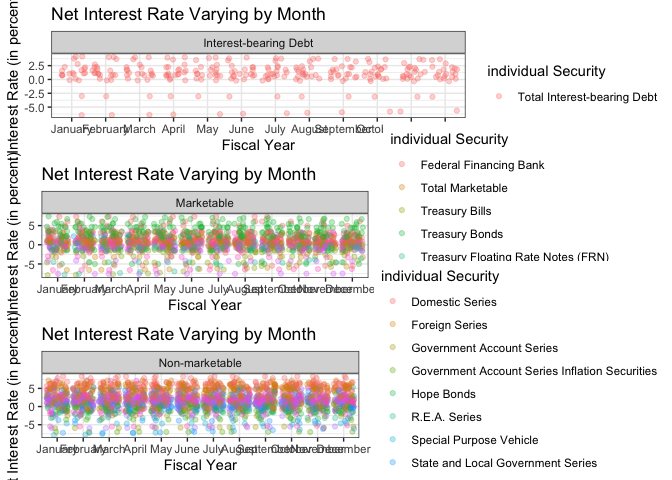
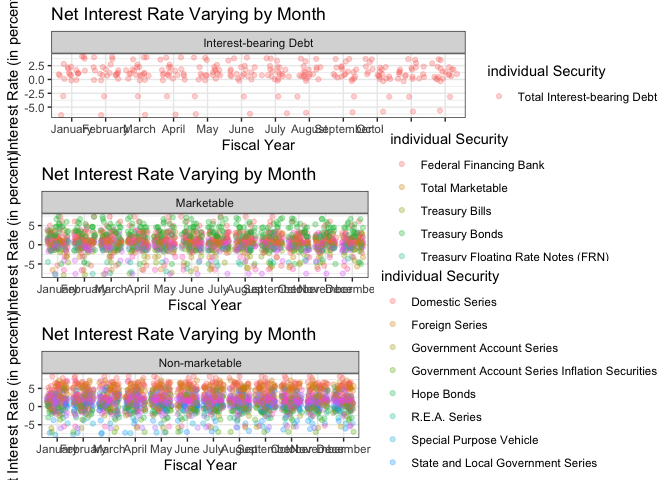
Materials needed for Project 2

diff --git a/README.md b/README.md
@@ -1363,6 +1363,8 @@ deficiencyAndRatesData %>%
     name = "Balance Sheet Deficiency \n(in Trillions of USD)",
     sec.axis = sec_axis(~ (. - a)/b, name="Net Interest Rate (in percent)")
   ) +
+  theme(text = element_text(size = 10),
+        axis.text.x = element_text(size = 8)) +
   labs(color = "Type of Security",
     title = "Balance Deficiency Affecting Net Interest Rates",
     x = "Fiscal Year") +
@@ -1417,8 +1419,10 @@ p1 <- ggplot(df$`Interest-bearing Debt`, aes(x = record_calendar_year)) +
     sec.axis = sec_axis(~ (. - a)/b, name="Net Interest Rate \n(in percent)")
   ) +
   labs(color = "individual Security",
-    title = "Balance Deficiency Affecting Net Interest Rates",
-    x = "Fiscal Year") +
+       title = "Balance Deficiency Affecting Net Interest Rates",
+       x = "Fiscal Year") +
+  theme(text = element_text(size = 10),
+        axis.text.x = element_text(size = 8)) +
   facet_wrap(vars(security_type_desc)) +
   theme_bw()
 
@@ -1469,6 +1473,8 @@ p1 <- ggplot(df$`Interest-bearing Debt`, aes(x = named_month)) +
        title = "Net Interest Rate Varying by Month",
        x = "Fiscal Year",
        y = "Net Interest Rate (in percent)") +
+  theme(text = element_text(size = 10),
+        axis.text.x = element_text(size = 8)) +
   facet_wrap(vars(security_type_desc)) +
   theme_bw()
 
@@ -1501,6 +1507,8 @@ interestAndInflationRates %>%
   ggplot(aes(x = inflationRate, y = avg_interest_rate_amt, color = security_type_desc)) +
   geom_point(alpha = 0.5, show.legend = FALSE) +
   facet_wrap(vars(security_type_desc), nrow = 3) + 
+  theme(text = element_text(size = 10),
+        axis.text.x = element_text(size = 8)) +
   labs(title = 'How the Inflation Rates and Interest Rates were in the Year: {frame_time}', 
        x = 'Inflation Rate (in percent)', 
        y = 'Interest Rate Offerred (in percent)') +
